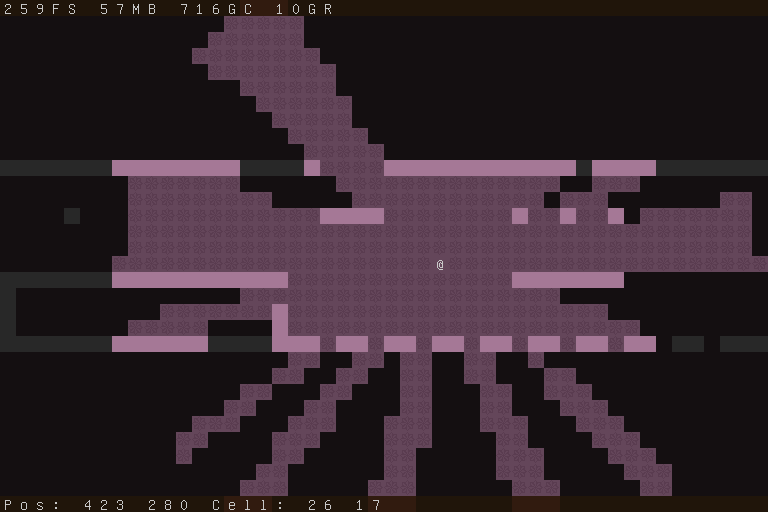
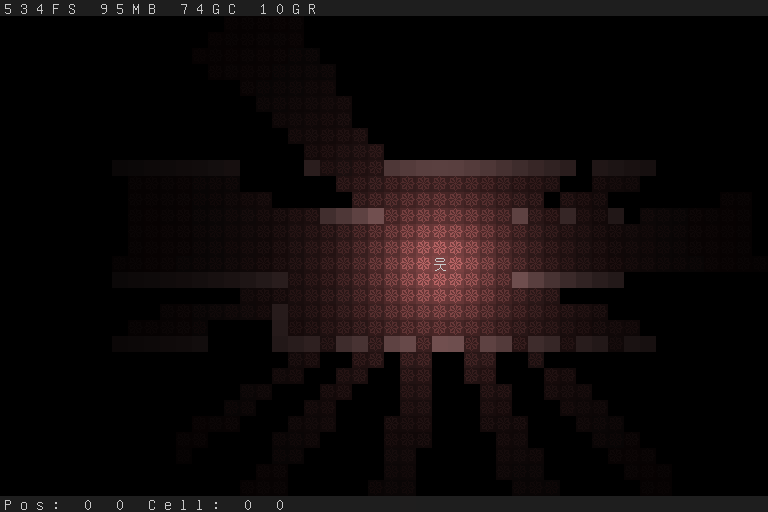
Switch from dirty flags to a back buffer.

diff --git a/examples/main.go b/examples/main.go
@@ -10,13 +10,12 @@ var (
 	width  = 48
 	height = 32
 
-	darkWall   = color.RGBA{40, 40, 40, 255}
-	lightWall = color.RGBA{165, 120, 150, 255}
-	darkFloor  = color.RGBA{20, 15, 17, 255}
-	lightFloor  = color.RGBA{100, 70, 90, 255}
-	lightFloor2  = color.RGBA{90, 60, 80, 255}
+	darkWall   = color.RGBA{0, 0, 0, 255}
+	lightWall = color.RGBA{255, 180, 180, 255}
+	darkFloor  = color.RGBA{0, 0, 0, 255}
+	lightFloor  = color.RGBA{128, 70, 70, 255}
     grey  = color.RGBA{200, 200, 200, 255}
-    umbra = color.RGBA{30, 20, 10, 255}
+    umbra = color.RGBA{30, 30, 30, 255}
 
 	fov   = rog.NewFOVMap(width, height)
 	x     = 0
@@ -70,6 +69,14 @@ func movePlayer(w *rog.Window, xx, yy int) {
     }
 }
 
+func intensity(px, py, cx, cy, r int) float64 {
+    r2 := float64(r * r)
+    squaredDist := float64((px-cx)*(px-cx)+(py-cy)*(py-cy))
+    coef1 := 1.0 / (1.0 + squaredDist / 20)
+    coef2 := coef1 - 1.0 / (1.0 + r2)
+    return coef2 / (1.0 - 1.0 / (1.0 + r2))
+}
+
 func fovExample(w *rog.Window) {
 	if first {
 		first = false
@@ -98,24 +105,21 @@ func fovExample(w *rog.Window) {
         movePlayer(w, x + 1, y)
     }
 
-	for y := 0; y < fov.Height(); y++ {
-		for x := 0; x < fov.Width(); x++ {
-			if fov.Look(x, y) {
-				if tmap[y][x] == '#' {
-					w.Set(x, y, "", lightWall, lightWall)
+	for cy := 0; cy < fov.Height(); cy++ {
+		for cx := 0; cx < fov.Width(); cx++ {
+            w.Set(cx, cy, "", nil, darkWall)
+			w.Set(cx, cy, " ", nil, darkFloor)
+			if fov.Look(cx, cy) {
+                i := intensity(x, y, cx, cy, 30)
+				if tmap[cy][cx] == '#' {
+					w.Set(cx, cy, "", nil, rog.ColorMul(lightWall, i))
 				} else {
-					w.Set(x, y, "✵", lightFloor2, lightFloor)
-				}
-			} else {
-				if tmap[y][x] == '#' {
-					w.Set(x, y, "", nil, darkWall)
-				} else {
-					w.Set(x, y, " ", nil, darkFloor)
+					w.Set(cx, cy, "✵", rog.ColorMul(lightFloor, i*1.5), rog.ColorMul(lightFloor, i), rog.Screen)
 				}
 			}
 		}
 	}
-	w.Set(x, y, "@", grey, nil)
+	w.Set(x, y, "웃", grey, nil)
 
 	runtime.ReadMemStats(&stats)
     w.Fill(0, 0, w.Width(), 1, ' ', grey, umbra, rog.Dodge)

diff --git a/console.go b/console.go
@@ -8,59 +8,31 @@ import (
 type Console struct {
 	bg, fg   [][]color.Color
 	ch       [][]rune
-	dirt     [][]bool
 	w, h     int
-	dBg, dFg color.Color
-	blend    ColorBlend
 }
 
 func NewConsole(width, height int) *Console {
 	bg := make([][]color.Color, height)
 	fg := make([][]color.Color, height)
 	ch := make([][]rune, height)
-	dirt := make([][]bool, height)
 
 	for y := 0; y < height; y++ {
 		bg[y] = make([]color.Color, width)
 		fg[y] = make([]color.Color, width)
 		ch[y] = make([]rune, width)
-		dirt[y] = make([]bool, width)
 	}
 
-	con := &Console{bg, fg, ch, dirt, width, height, color.Black, color.White, Normal}
+	con := &Console{bg, fg, ch, width, height}
 
 	for x := 0; x < con.w; x++ {
 		for y := 0; y < con.h; y++ {
 			con.ch[y][x] = ' '
-			con.fg[y][x] = con.dFg
-			con.bg[y][x] = con.dBg
-			con.dirt[y][x] = true
+			con.fg[y][x] = color.White
+			con.bg[y][x] = color.Black
 		}
 	}
 
 	return con
-}
-
-func (con *Console) SetDefaults(fg, bg color.Color, blend ColorBlend) {
-	if fg != nil {
-		con.dFg = fg
-	}
-	if bg != nil {
-		con.dBg = bg
-	}
-	con.blend = blend
-}
-
-func (con *Console) Dirty() {
-	for x := 0; x < con.w; x++ {
-		for y := 0; y < con.h; y++ {
-			con.dirt[y][x] = true
-		}
-	}
-}
-
-func (con *Console) Clear() {
-	con.Fill(0, 0, con.w, con.h, ' ', con.dFg, con.dBg)
 }
 
 func (con *Console) Fill(x0, y0, x1, y1 int, ch rune, fg, bg color.Color, bl ...ColorBlend) {
@@ -72,20 +44,18 @@ func (con *Console) Fill(x0, y0, x1, y1 int, ch rune, fg, bg color.Color, bl ...
 }
 
 func (con *Console) put(x, y int, ch rune, fg, bg color.Color, blend ColorBlend) {
-	if ch > 0 && con.ch[y][x] != ch {
-		con.dirt[y][x] = true
+	if ch > 0 {
 		con.ch[y][x] = ch
 	}
 
-	if fg != nil && !colorEq(fg, con.fg[y][x]) {
-		con.dirt[y][x] = true
+	if fg != nil {
 		con.fg[y][x] = fg
 	}
 
-	if bg != nil && !colorEq(bg, con.bg[y][x]) {
-		con.dirt[y][x] = true
+	if bg != nil {
 		con.bg[y][x] = blend(bg, con.bg[y][x])
-	}
+    }
+
 }
 
 func (con *Console) Set(x, y int, data string, fg, bg color.Color, bl ...ColorBlend) {

diff --git a/rog.go b/rog.go
@@ -99,7 +99,6 @@ func handleEvents(window *Window) {
         case wde.KeyTypedEvent:
             window.Key = e.Glyph
 		case wde.ResizeEvent:
-			window.Dirty()
 		case wde.CloseEvent:
             window.win.Close()
 			wg.Done()
@@ -120,6 +119,7 @@ func Open(width, height int, title string, driver driver) {
 		dw.Show()
 
 		console := NewConsole(width, height)
+        backbuf := NewConsole(width, height)
 		window := &Window{console, dw, 0, 0, new(Mouse), ""}
 
 		f := font()
@@ -146,15 +146,17 @@ func Open(width, height int, title string, driver driver) {
 			// Render the console to the screen
 			for y := 0; y < window.h; y++ {
 				for x := 0; x < window.w; x++ {
-					if window.dirt[y][x] {
-						window.dirt[y][x] = false
+					bg := window.bg[y][x]
+					fg := window.fg[y][x]
+					ch := window.ch[y][x]
+					if bg != backbuf.bg[y][x] || fg != backbuf.fg[y][x] || ch != backbuf.ch[y][x] {
+                        backbuf.bg[y][x] = bg
+                        backbuf.fg[y][x] = fg
+                        backbuf.ch[y][x] = ch
 						r := mr.Add(image.Point{x * 16, y * 16})
-						bg := window.bg[y][x]
 						src := &image.Uniform{bg}
 						draw.Draw(screen, r, src, image.ZP, draw.Src)
 
-						ch := window.ch[y][x]
-						fg := window.fg[y][x]
 						if ch != ' ' {
 							src = &image.Uniform{fg}
 							draw.DrawMask(screen, r, src, image.ZP, mask, image.Point{int(ch%32) * 16, int(ch/32) * 16}, draw.Over)

diff --git a/color.go b/color.go
@@ -11,6 +11,12 @@ func colorEq(x, y color.Color) bool {
 	return xr == yr && xg == yg && xb == yb && xa == ya
 }
 
+func ColorMul(x color.Color, s float64) color.Color {
+	xr, xg, xb, xa := colorToFloats(x)
+    r, g, b, a := 255 * xr * s, 255 * xg * s, 255 * xb * s, 255 * xa
+    return color.RGBA{uint8(r), uint8(g), uint8(b), uint8(a)}
+}
+
 func colorToFloats(c color.Color) (rr, gg, bb, aa float64) {
 	const M = float64(1<<16 - 1)
 	r, g, b, a := c.RGBA()
